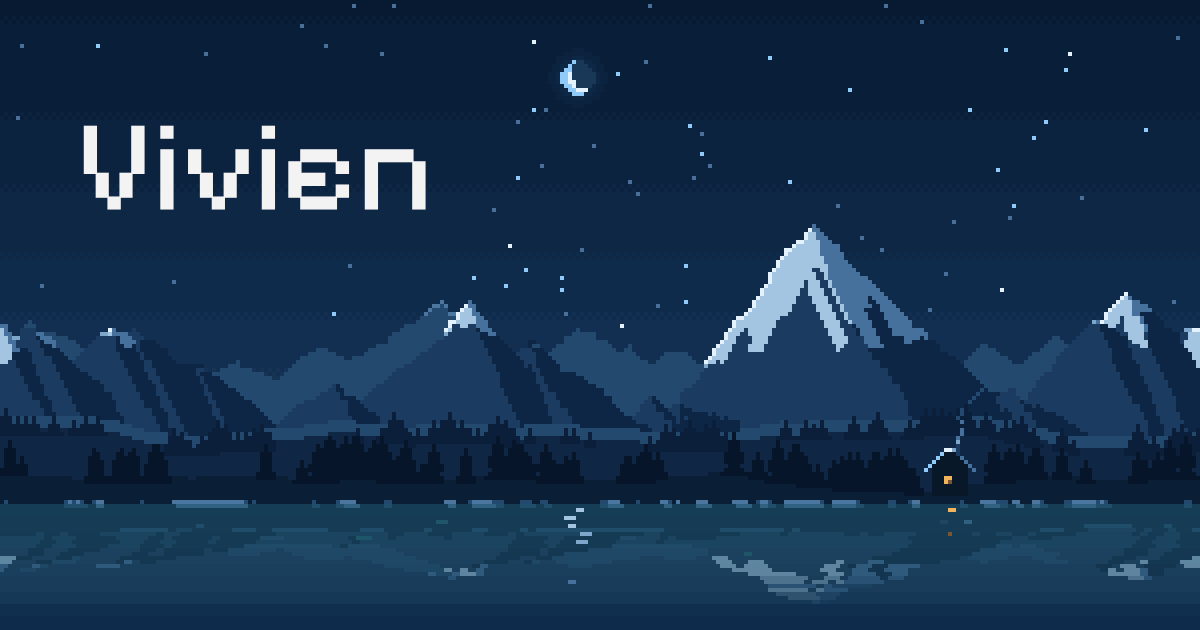
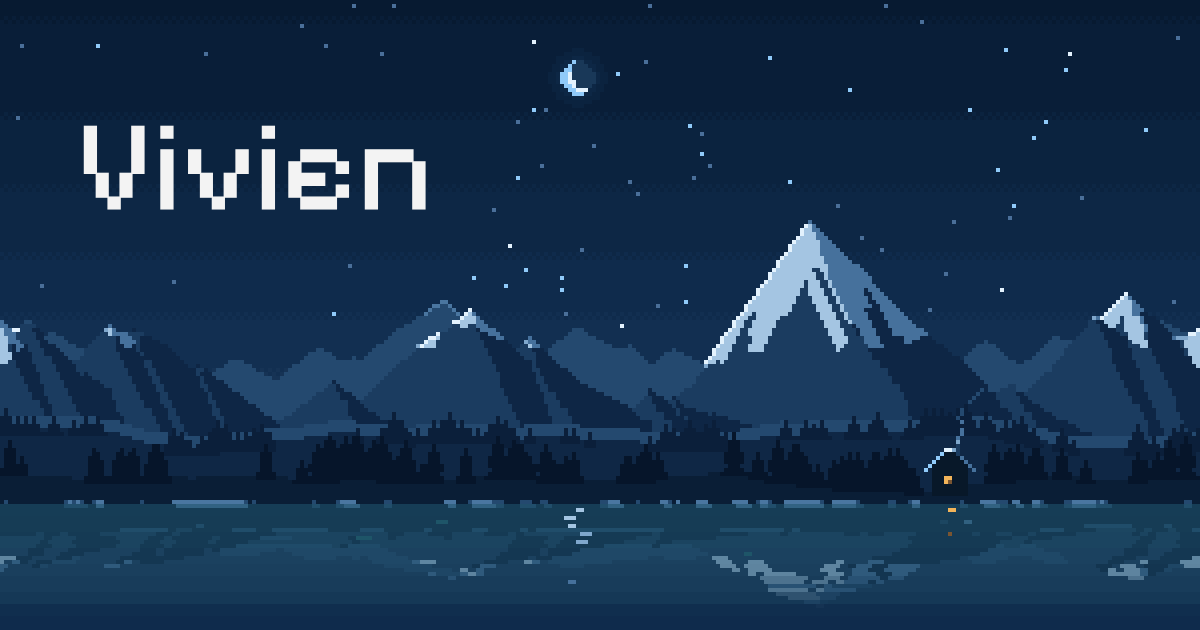
Even stair-steps on every ridgeline
The crest noise wobbled column by column, so slopes stepped in uneven
runs (1-2-1-3-1). It now varies at the scale of shoulders and dips and
the random one-row notches are gone, so each stretch of slope keeps an
even run of one- and two-pixel steps. Abrupt run changes along the
skyline drop from 31 to 9 at desktop width. Refresh og.png and
DESIGN.md.

Claude-Session: https://claude.ai/code/session_01W1WJo8FCiKhhtBsWrrJKbP

diff --git a/scene.js b/scene.js
@@ -191,9 +191,10 @@
         const y = p.y + (dx < 0 ? -dx * p.sl : dx * p.sr);
         if (y < best) { best = y; who = p; }
       }
-      // ragged crest: mostly small steps, occasional notches
-      const j = fbm(nFar, x * 0.23 + jagSeed, 3) - 0.5;
-      top[x] = Math.round(best + j * jagAmp + (nRib(x * 0.9 + jagSeed) > 0.85 ? 1 : 0));
+      // a rugged crest at the scale of shoulders and dips, never a column-by-column stutter:
+      // each stretch of slope keeps an even stair-step (runs of one or two that change gradually)
+      const j = fbm(nFar, x * 0.07 + jagSeed, 2) - 0.5;
+      top[x] = Math.round(best + j * jagAmp);
       owner[x] = who;
     }
     // no one-column notches: a single pixel dipping out of a line reads as a jaggy, not as rock

diff --git a/index.html b/index.html
@@ -12,7 +12,7 @@
   <meta property="og:site_name" content="Vivien">
   <meta property="og:description" content="Mechanical engineer, formerly a musician and programmer.">
   <meta property="og:url" content="https://meowzerskittycat.github.io/">
-  <meta property="og:image" content="https://meowzerskittycat.github.io/og.png?v=53beffd4">
+  <meta property="og:image" content="https://meowzerskittycat.github.io/og.png?v=8fd5f3a4">
   <meta property="og:image:type" content="image/png">
   <meta property="og:image:width" content="1200">
   <meta property="og:image:height" content="630">

diff --git a/DESIGN.md b/DESIGN.md
@@ -240,7 +240,7 @@ The page has no buttons, inputs, navigation, or cards, by product decision (no l
 - **Do** keep motion slow and stepped (10fps for the scene, `steps()` timing for CSS), pause it offscreen, and hold it still for reduced-motion users.
 - **Do** draw rules as rows of square pixel dots in ridge blue.
 - **Do** keep the fjord on a fixed palette: the water is a few depth bands (the last one exactly the page colour), and each reflected pixel takes one of five colours per band by what it reflects (dark shore, sky and rock, haze, shaded snow, lit snow). Never blend reflections continuously; that mints dozens of one-off colours.
-- **Do** keep ridgelines clean: no one-column notches, a summit ends in a single tip pixel, the frost crest covers every pixel the sky touches from above or from the west so it runs unbroken down steep steps, and the light/shadow split starts exactly at the summit.
+- **Do** keep ridgelines clean: the crest's ruggedness lives at the scale of shoulders and dips (low-frequency noise), so each stretch of slope keeps an even stair-step of one- and two-pixel runs that change gradually, never a column-by-column stutter; no one-column notches, a summit ends in a single tip pixel, the frost crest covers every pixel the sky touches from above or from the west so it runs unbroken down steep steps, and the light/shadow split starts exactly at the summit.
 - **Do** keep the snow free of orphans: a snow patch of six pixels or fewer, or a small patch that never reaches the ridge crest, is noise and takes the rock colour beside it; likewise a rock speck of three pixels or fewer walled in by snow takes the snow beside it.
 - **Do** light the terrain from the moon's side: lit faces and the pines' shadows agree with where the moon hangs. The pines stay clean dark silhouettes, with no snow or rim pixels on their tiers, which read as speckle in dense stands.
 
